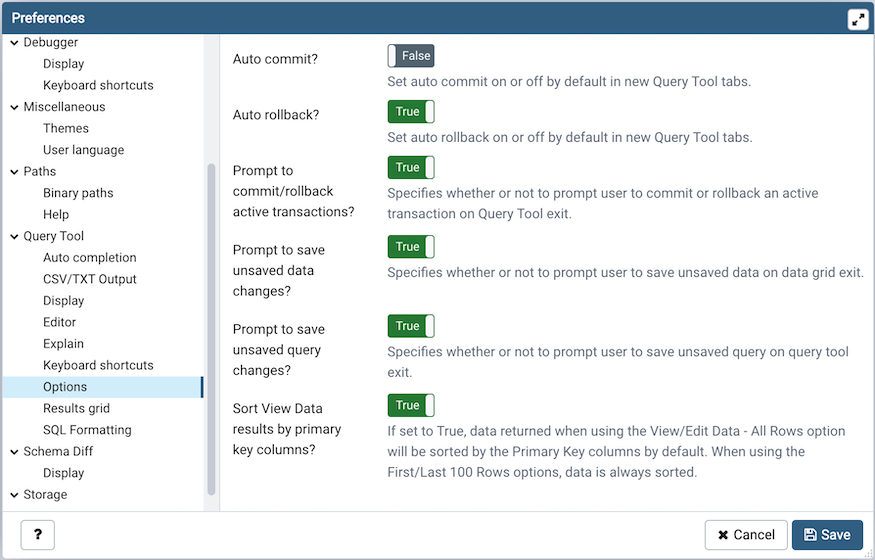
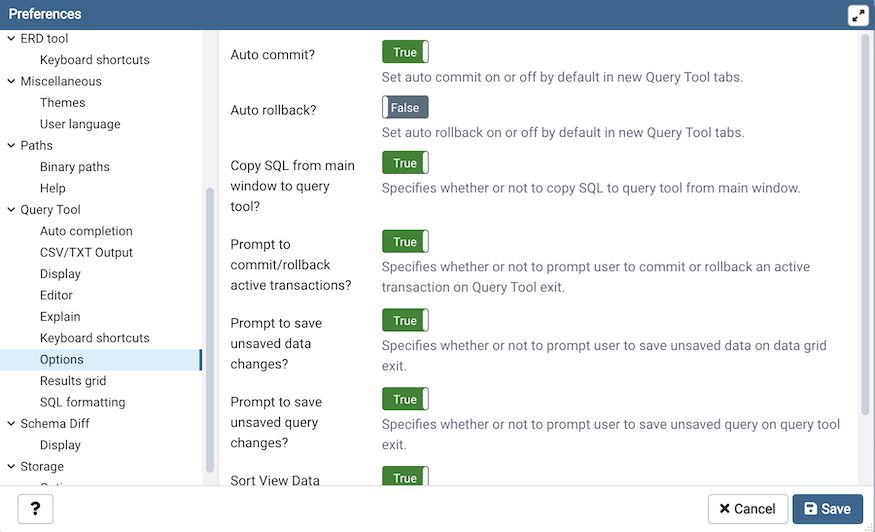
Added support to copy SQL from main window to query tool. Fixes #4904

diff --git a/web/pgadmin/tools/datagrid/static/js/datagrid.js b/web/pgadmin/tools/datagrid/static/js/datagrid.js
@@ -114,6 +114,7 @@ define('pgadmin.datagrid', [
           label: gettext('Query Tool'),
           icon: 'pg-font-icon icon-query_tool',
           data:{
+            applies: 'tools',
             data_disabled: gettext('Please select a database from the browser tree to access Query Tool.'),
           },
         }];
@@ -210,7 +211,25 @@ define('pgadmin.datagrid', [
       // This is a callback function to show query tool when user click on menu item.
       show_query_tool: function(url, aciTreeIdentifier) {
         const transId = commonUtils.getRandomInt(1, 9999999);
-        showQueryTool.showQueryTool(this, pgBrowser, alertify, url, aciTreeIdentifier, transId);
+        var t = pgBrowser.tree,
+          i = aciTreeIdentifier || t.selected(),
+          d = i && i.length == 1 ? t.itemData(i) : undefined;
+
+        //Open query tool with create script if copy_sql_to_query_tool is true else open blank query tool
+        var preference = pgBrowser.get_preference('sqleditor', 'copy_sql_to_query_tool');
+        if(preference.value && !d._type.includes('coll-') && (url === '' || url['applies'] === 'tools')){
+          var stype = d._type.toLowerCase();
+          var data = {
+            'script': stype,
+            data_disabled: gettext('The selected tree node does not support this option.'),
+          };
+          pgBrowser.Node.callbacks.show_script(data);
+        }else{
+          if(d._type.includes('coll-')){
+            url = '';
+          }
+          showQueryTool.showQueryTool(this, pgBrowser, alertify, url, aciTreeIdentifier, transId);
+        }
       },
 
       launch_grid: function(trans_id, panel_url, is_query_tool, panel_title, sURL=null, sql_filter=null) {

diff --git a/web/pgadmin/browser/static/js/node.js b/web/pgadmin/browser/static/js/node.js
@@ -902,6 +902,7 @@ define('pgadmin.browser.node', [
 
       // Callback to render query editor
       show_query_tool: function(args, item) {
+        var preference = pgBrowser.get_preference('sqleditor', 'copy_sql_to_query_tool');
         var t = pgBrowser.tree,
           i = item || t.selected(),
           d = i && i.length == 1 ? t.itemData(i) : undefined;
@@ -910,7 +911,17 @@ define('pgadmin.browser.node', [
           return;
 
         // Here call data grid method to render query tool
-        pgAdmin.DataGrid.show_query_tool('', i);
+        //Open query tool with create script if copy_sql_to_query_tool is true else open blank query tool
+        if(preference.value && !d._type.includes('coll-')){
+          var stype = d._type.toLowerCase();
+          var data = {
+            'script': stype,
+            data_disabled: gettext('The selected tree node does not support this option.'),
+          };
+          pgBrowser.Node.callbacks.show_script(data);
+        }else{
+          pgAdmin.DataGrid.show_query_tool('', i);
+        }
       },
 
       // Callback to render psql tool.

diff --git a/web/pgadmin/feature_tests/test_copy_sql_to_query_tool.py b/web/pgadmin/feature_tests/test_copy_sql_to_query_tool.py
@@ -1,0 +1,153 @@
+##########################################################################
+#
+# pgAdmin 4 - PostgreSQL Tools
+#
+# Copyright (C) 2013 - 2021, The pgAdmin Development Team
+# This software is released under the PostgreSQL Licence
+#
+##########################################################################
+
+import random
+import time
+
+from regression.feature_utils.base_feature_test import BaseFeatureTest
+from regression.python_test_utils import test_utils
+from regression.feature_utils.tree_area_locators import TreeAreaLocators
+from regression.feature_utils.locators import NavMenuLocators, \
+    QueryToolLocators
+from selenium.webdriver import ActionChains
+from selenium.webdriver.support.ui import WebDriverWait
+from selenium.webdriver.common.by import By
+from selenium.webdriver.support import expected_conditions as EC
+
+
+class CopySQLFeatureTest(BaseFeatureTest):
+    """ This class test acceptance test scenarios """
+
+    scenarios = [
+        ("Test copy sql to query tool", dict())
+    ]
+
+    test_table_name = ""
+
+    def before(self):
+
+        self.page.add_server(self.server)
+
+    def runTest(self):
+        self._update_preferences_setting()
+        self._create_table()
+        sql_query = self._get_sql_query()
+        query_tool_result = self._get_query_tool_result()
+
+        self.assertEqual(query_tool_result, sql_query)
+
+    def after(self):
+        self.page.remove_server(self.server)
+        test_utils.delete_table(
+            self.server, self.test_db, self.test_table_name)
+
+    def _get_sql_query(self):
+        self.page.click_tab("SQL")
+        # Wait till data is displayed in SQL Tab
+        self.assertTrue(self.page.check_if_element_exist_by_xpath(
+            "//*[contains(@class,'CodeMirror-lines') and "
+            "contains(.,'CREATE TABLE IF NOT EXISTS public.%s')]"
+            % self.test_table_name, 10), "No data displayed in SQL tab")
+
+        # Fetch the inner html & check for escaped characters
+        source_code = self.driver.find_elements_by_xpath(
+            QueryToolLocators.code_mirror_data_xpath)
+
+        sql_query = ''
+        for data in source_code:
+            sql_query += data.text
+            sql_query += '\n'
+
+        return sql_query
+
+    def _get_query_tool_result(self):
+        self.page.open_query_tool()
+        self.page.wait_for_spinner_to_disappear()
+
+        time.sleep(5)
+
+        self.driver.switch_to.default_content()
+        self.driver.switch_to_frame(
+            self.driver.find_element_by_tag_name("iframe"))
+
+        code_mirror = self.driver.find_elements_by_xpath(
+            QueryToolLocators.code_mirror_data_xpath)
+        query_tool_result = ''
+        for data in code_mirror:
+            query_tool_result += data.text
+            query_tool_result += '\n'
+
+        return query_tool_result
+
+    def _create_table(self):
+        self.test_table_name = "test_table" + str(random.randint(1000, 3000))
+        test_utils.create_table(self.server, self.test_db,
+                                self.test_table_name)
+
+        self.page.expand_database_node(
+            self.server['name'],
+            self.server['db_password'], self.test_db)
+        self.page.toggle_open_tables_node(
+            self.server['name'], self.server['db_password'],
+            self.test_db, 'public')
+        self.page.click_a_tree_node(
+            self.test_table_name,
+            TreeAreaLocators.sub_nodes_of_tables_node)
+
+    def _update_preferences_setting(self):
+        file_menu = self.page.find_by_css_selector(
+            NavMenuLocators.file_menu_css)
+        file_menu.click()
+
+        self.page.retry_click(
+            (By.CSS_SELECTOR, NavMenuLocators.preference_menu_item_css),
+            (By.XPATH, NavMenuLocators.specified_preference_tree_node
+             .format('Browser'))
+        )
+
+        wait = WebDriverWait(self.page.driver, 10)
+
+        browser_node = self.page.find_by_xpath(
+            NavMenuLocators.specified_preference_tree_node.format('Browser'))
+        if self.page.find_by_xpath(
+            NavMenuLocators.specified_pref_node_exp_status.
+                format('Browser')).get_attribute('aria-expanded') == 'false':
+            ActionChains(self.driver).double_click(browser_node).perform()
+
+        self.page.retry_click(
+            (By.XPATH, NavMenuLocators.specified_sub_node_of_pref_tree_node.
+             format('Browser', 'Display')),
+            (By.XPATH, NavMenuLocators.show_system_objects_pref_label_xpath))
+
+        # Wait till the preference dialogue box is displayed by checking the
+        # visibility of Show System Object label
+        wait.until(EC.presence_of_element_located(
+            (By.XPATH, NavMenuLocators.show_system_objects_pref_label_xpath))
+        )
+
+        specified_preference_tree_node_name = 'Query Tool'
+        sql_editor = self.page.find_by_xpath(
+            NavMenuLocators.specified_preference_tree_node.format(
+                specified_preference_tree_node_name))
+        if self.page.find_by_xpath(
+            NavMenuLocators.specified_pref_node_exp_status.
+                format(specified_preference_tree_node_name)).get_attribute(
+                    'aria-expanded') == 'false':
+            ActionChains(self.driver).double_click(sql_editor).perform()
+
+        option_node = self.page.find_by_xpath(
+            NavMenuLocators.specified_sub_node_of_pref_tree_node.format(
+                specified_preference_tree_node_name, 'Options'))
+        option_node.click()
+
+        self.page.set_switch_box_status(
+            NavMenuLocators.copy_sql_to_query_tool_switch_btn, 'Yes')
+
+        # save and close the preference dialog.
+        self.page.click_modal('Save')

diff --git a/web/pgadmin/tools/sqleditor/utils/query_tool_preferences.py b/web/pgadmin/tools/sqleditor/utils/query_tool_preferences.py
@@ -128,6 +128,17 @@ def register_query_tool_preferences(self):
         )
     )
 
+    self.show_prompt_commit_transaction = self.preference.register(
+        'Options', 'copy_sql_to_query_tool',
+        gettext("Copy SQL from main window to query tool?"), 'boolean',
+        False,
+        category_label=PREF_LABEL_OPTIONS,
+        help_str=gettext(
+            'Specifies whether or not to copy SQL to query tool from '
+            'main window.'
+        )
+    )
+
     self.sql_font_size = self.preference.register(
         'Editor', 'plain_editor_mode',
         gettext("Plain text mode?"), 'boolean', False,

diff --git a/web/regression/feature_utils/locators.py b/web/regression/feature_utils/locators.py
@@ -68,6 +68,11 @@ class NavMenuLocators:
         "//div[span[normalize-space(text())='Insert bracket pairs?']]" \
         "//div[contains(@class,'toggle btn')]"
 
+    copy_sql_to_query_tool_switch_btn = \
+        "//div[span[normalize-space(text())=" \
+        "'Copy SQL from main window to query tool?']]" \
+        "//div[contains(@class,'toggle btn')]"
+
     backup_filename_txt_box_name = "file"
 
     restore_file_name_txt_box_name = "file"

diff --git a/docs/en_US/preferences.rst b/docs/en_US/preferences.rst
@@ -353,6 +353,10 @@ Use the fields on the *Options* panel to manage editor preferences.
 * When the *Auto-Rollback?* switch is set to *True*, failed queries are rolled
   back.
 
+* When the *Copy SQL from main window to query tool?* switch is set to *True*,
+  the CREATE sql of the selected object will be copied to query tool when query tool
+  will open.
+
 * When the *Prompt to save unsaved data changes?* switch is set to *True*, the
   editor will prompt the user to saved unsaved data when exiting the data
   editor.

diff --git a/docs/en_US/release_notes_5_6.rst b/docs/en_US/release_notes_5_6.rst
@@ -9,6 +9,7 @@ This release contains a number of bug fixes and new features since the release o
 New features
 ************
 
+| `Issue #4904 <https://redmine.postgresql.org/issues/4904>`_ -  Added support to copy SQL from main window to query tool.
 | `Issue #5198 <https://redmine.postgresql.org/issues/5198>`_ -  Added support for formatted JSON viewer/editor when interacting with data in a JSON column.
 
 Housekeeping
